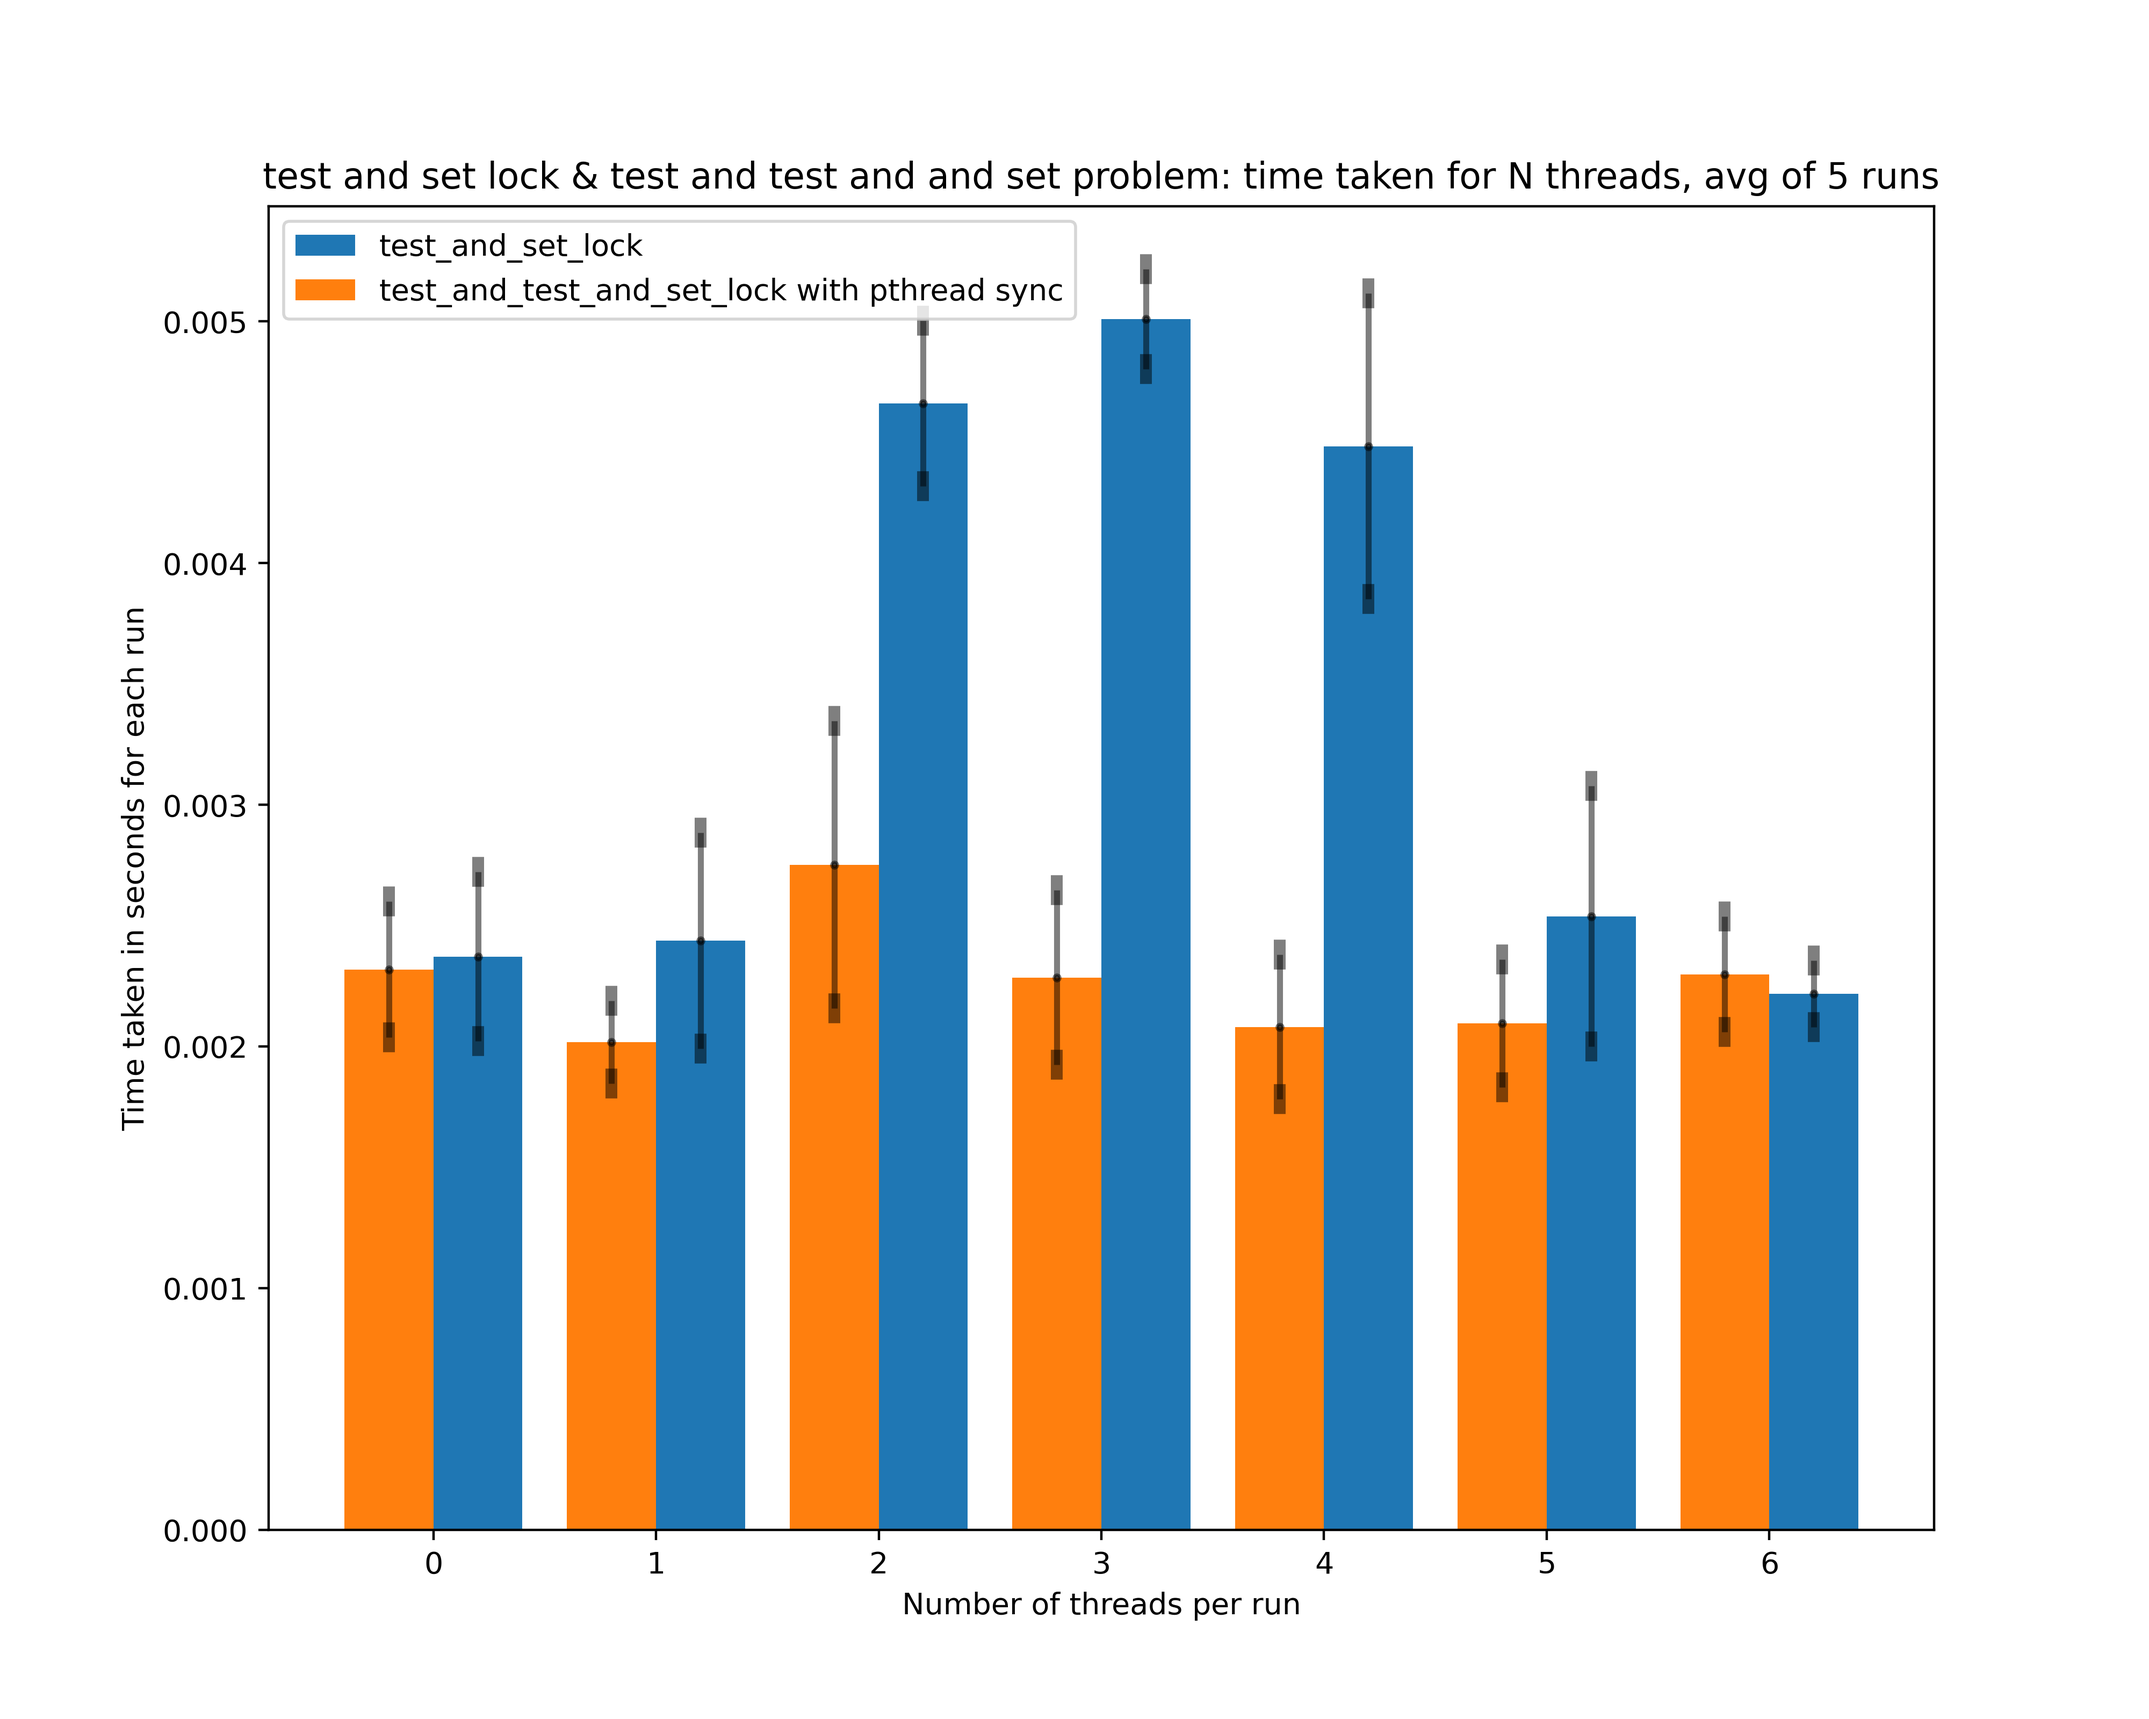
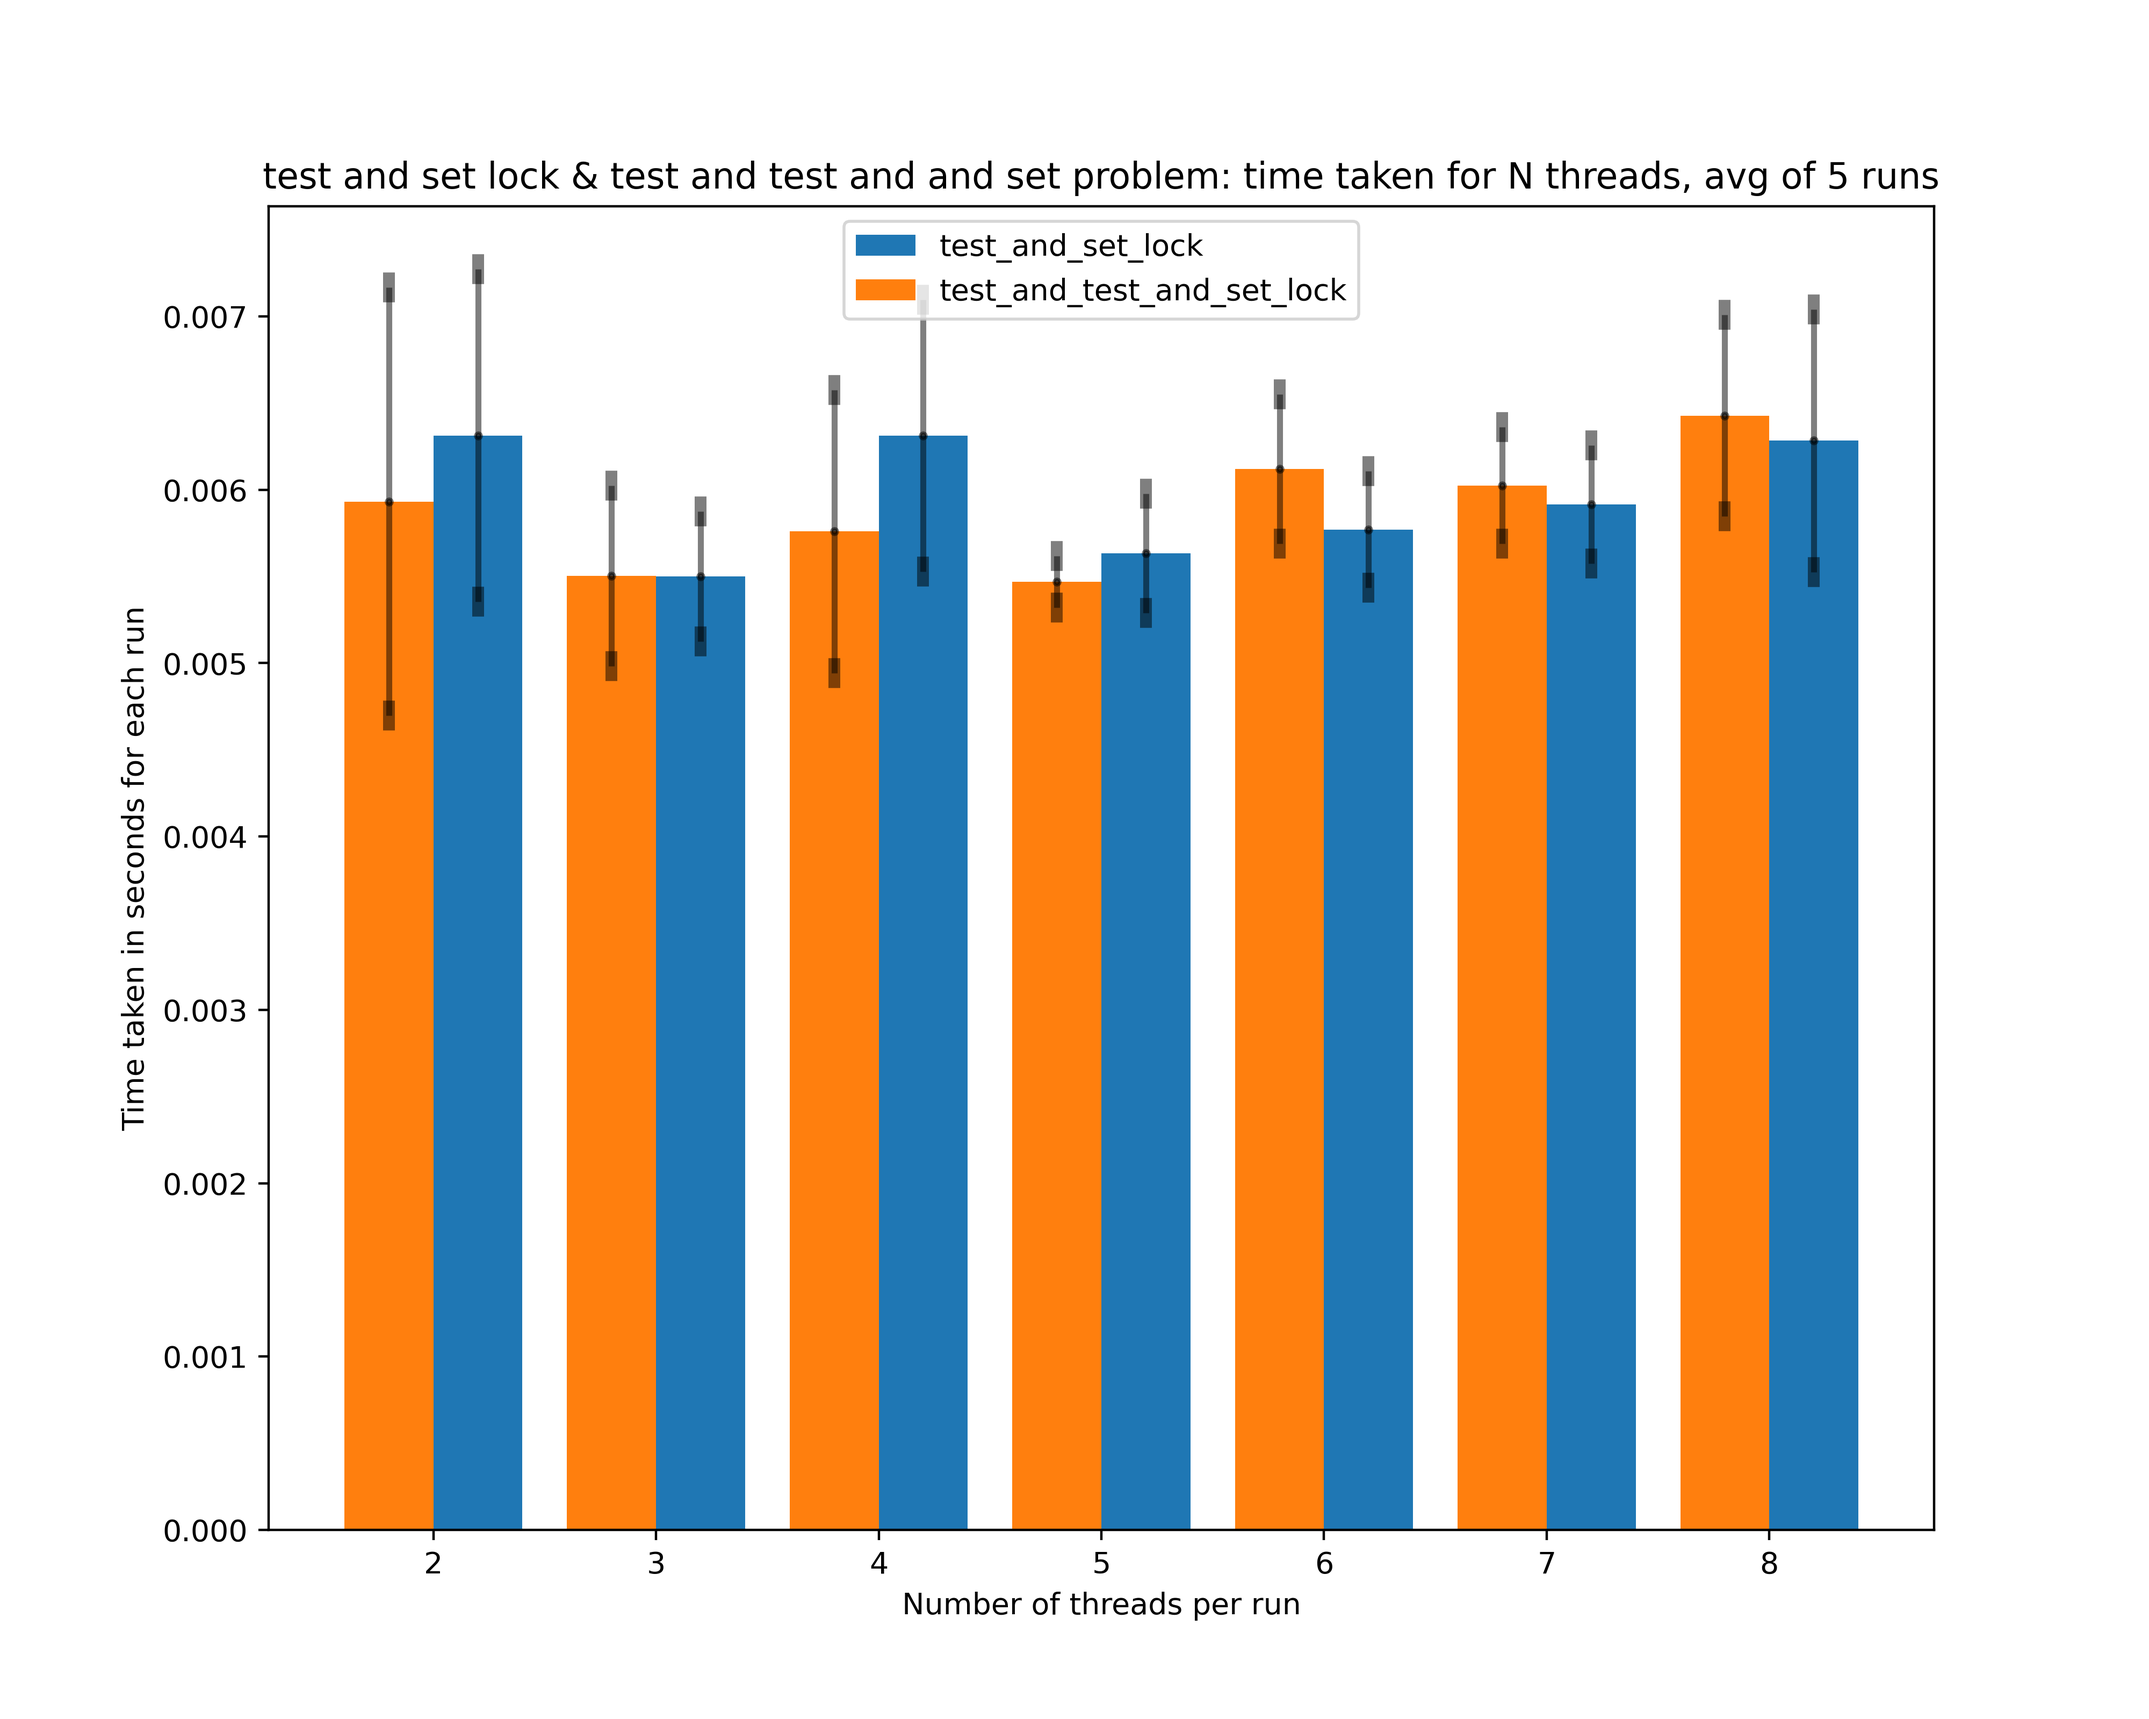
Fixed semaphore, fixed producer consumer,

diff --git a/src/my_semaphore.c b/src/my_semaphore.c
@@ -27,37 +27,38 @@ void semaphore_wait(semaphore_t *semaphore) {
 
     lock_test_and_test_and_set(semaphore->mutex);
 
-    if (semaphore->counter > 0) {
-        (semaphore->counter)--;
-    } else {
-        // the calling thread is blocked while counter is 0
-        while (semaphore->counter == 0) {}
+    // the calling thread is blocked while counter is 0
+    while (semaphore->counter < 1) {}
 
-        (semaphore->counter)--;
-    }
-
+//    (semaphore->counter)--;
+    uint res;
+    asm volatile ("lock; xadd %0, %1"
+            : "=r"(res), "+m"(semaphore->counter)
+            : "0"(-1)
+            : "memory"
+            );
 
     unlock(semaphore->mutex);
 }
 
 // increments the semaphore value, unblocks any thread waiting for the counter to go up.
 void semaphore_post(semaphore_t *semaphore) {
-    (semaphore->counter)++;
+//    (semaphore->counter)++;
 
     // we can also increment counter using xadd which is the atomic addition
-//    uint res;
-//    asm volatile ("lock; xadd %0, %1"
-//            : "=r"(res), "+m"(semaphore->counter)
-//            : "0"(1)
-//            : "memory"
-//            );
+    uint res;
+    asm volatile ("lock; xadd %0, %1"
+            : "=r"(res), "+m"(semaphore->counter)
+            : "0"(1)
+            : "memory"
+            );
 //    return res;
 }
 
 
 // test program: ----------------------------
-// small program used to test if the semaphores above work correctly, they are used to guarantee mutual exclusion,
-// sort of like a binary semaphore
+// small program used to test if the semaphores above work correctly, in this example they are used to guarantee mutual exclusion,
+// sort of like a mutex
 
 void test_semaphore(int n_threads, bool verbose) {
     pthread_t threads[n_threads];
@@ -116,11 +117,10 @@ void *test_semaphore_thread_func(void *arg) {
 
     for (int i = 0; i < 10000; ++i) {
         semaphore_wait(args->semaphore);
-        if (args->verbose) {
-            printf("Thread #%d got past the sem and is incrementing counter\n", args->id);
-        }
-        (*args->counter)++;
-//        *args->counter = *args->counter + 1;
+            if (args->verbose) {
+                printf("Thread #%d got past the sem and is incrementing counter\n", args->id);
+            }
+            (*args->counter)++;
         semaphore_post(args->semaphore);
     }
     pthread_exit(NULL);

diff --git a/src/producers_consumers.c b/src/producers_consumers.c
@@ -22,7 +22,7 @@ volatile int produced_elements = 0;
 volatile int consumed_elements = 0;
 
 void producer_consumer(int n_prods, int n_cons, bool verbose, bool using_pthread_sync) {
-    if (using_pthread_sync) {
+    if (using_pthread_sync && verbose) {
         printf("Running the producer consumer problem using pthread sync\n");
     }
 
@@ -32,6 +32,7 @@ void producer_consumer(int n_prods, int n_cons, bool verbose, bool using_pthread
 
     semaphore_init(&empty, BUFFER_SIZE);
     semaphore_init(&full, 0);
+
     int error = pthread_mutex_init(&pthread_mutex, NULL);
     if (error != 0) {
         perror("Failed to init prod cons mutex");
@@ -73,6 +74,7 @@ void producer_consumer(int n_prods, int n_cons, bool verbose, bool using_pthread
 
         prod_args[i]->id = i;
         prod_args[i]->verbose = verbose;
+        prod_args[i]->using_pthread_sync = using_pthread_sync;
 
         pthread_create(&prods[i], NULL, producer, (void *) prod_args[i]);
     }
@@ -93,6 +95,7 @@ void producer_consumer(int n_prods, int n_cons, bool verbose, bool using_pthread
 
         cons_args[i]->id = i;
         cons_args[i]->verbose = verbose;
+        cons_args[i]->using_pthread_sync = using_pthread_sync;
 
         pthread_create(&cons[i], NULL, consumer, (void *) cons_args[i]);
     }
@@ -132,14 +135,15 @@ void producer_consumer(int n_prods, int n_cons, bool verbose, bool using_pthread
     free(buffer);
 
     mutex_destroy(mutex);
+
+    semaphore_destroy(&empty);
+    semaphore_destroy(&full);
+
     int err = pthread_mutex_destroy(&pthread_mutex);
     if (err != 0) {
         perror("Failed to destroy prod cons mutex");
         exit(EXIT_FAILURE);
     }
-
-    semaphore_destroy(&empty);
-    semaphore_destroy(&full);
 
     sem_destroy(&pthread_empty);
     sem_destroy(&pthread_full);

diff --git a/analysis.py b/analysis.py
@@ -11,10 +11,10 @@ import numpy as np
 class CurrentProblem(Enum):
     PHILOSOPHERS = "philosophers"
     PHILOSOPHERS_OLD = "old_philosophers"
-    READER_WRITER = "reader_writer"
-    READER_WRITER_OLD = "old_reader_writer"
     PRODUCER_CONSUMER = "producer_consumer"
     PRODUCER_CONSUMER_OLD = "old_producer_consumer"
+    READER_WRITER = "reader_writer"
+    READER_WRITER_OLD = "old_reader_writer"
     TEST_AND_SET_LOCK = "test_and_set_lock"
     TEST_AND_TEST_AND_SET_LOCK = "test_and_test_and_set_lock"
 
@@ -32,7 +32,7 @@ def plot_file(file, current_problems: (str, str)):
     old_problem_y_err = []
 
     for row in reader:
-        threads.append(row[0])
+        threads.append(int(row[0]))
         float_row = []
         for i in row[1:]:
             time_list = i.split(";")
@@ -57,16 +57,14 @@ def plot_file(file, current_problems: (str, str)):
 
     width = 10
     height = 8
-
-    X_axis = np.arange(len(threads)) + 0.2
-
+    X_axis = np.arange(threads[0], threads[-1]+1, 1) + 0.2
     plt.figure(figsize=(width, height))
 
     plt.bar(X_axis, y, 0.4, label=new_problem)
     plt.errorbar(X_axis, y, y_err, fmt=".", color="Black", elinewidth=2, capthick=10, errorevery=1, alpha=0.5, ms=4,
                  capsize=2)
 
-    plt.bar(X_axis - 0.4, old_problem_y, 0.4, label=old_problem.replace("old_", "") + " with pthread sync")
+    plt.bar(X_axis - 0.4, old_problem_y, 0.4, label=old_problem.replace("old_", "") + " with pthread sync" if new_problem != CurrentProblem.TEST_AND_SET_LOCK.value else old_problem.replace("old_", ""))
     plt.errorbar(X_axis - 0.4, old_problem_y, old_problem_y_err, fmt=".", color="Black", elinewidth=2, capthick=10, errorevery=1,
                  alpha=0.5, ms=4,
                  capsize=2)

diff --git a/src/readers_writers.c b/src/readers_writers.c
@@ -24,7 +24,7 @@ mutex_t *mutex;
 volatile int readcount, writecount = 0; // nombre de readers et de writers actif
 
 void reader_writer(int n_reader, int n_writer, bool verbose, bool using_pthread_sync) {
-    if (using_pthread_sync) {
+    if (using_pthread_sync && verbose) {
         printf("Running the readers writers problem using pthread sync\n");
     }
 

diff --git a/src/philosophes.c b/src/philosophes.c
@@ -10,7 +10,7 @@ void philosophers(int n_philosophers, bool verbose, bool using_pthread_sync) {
         exit(EXIT_FAILURE);
     }
 
-    if (using_pthread_sync) {
+    if (using_pthread_sync && verbose) {
         printf("Running the philosophers problem using pthread sync\n");
     }
 
